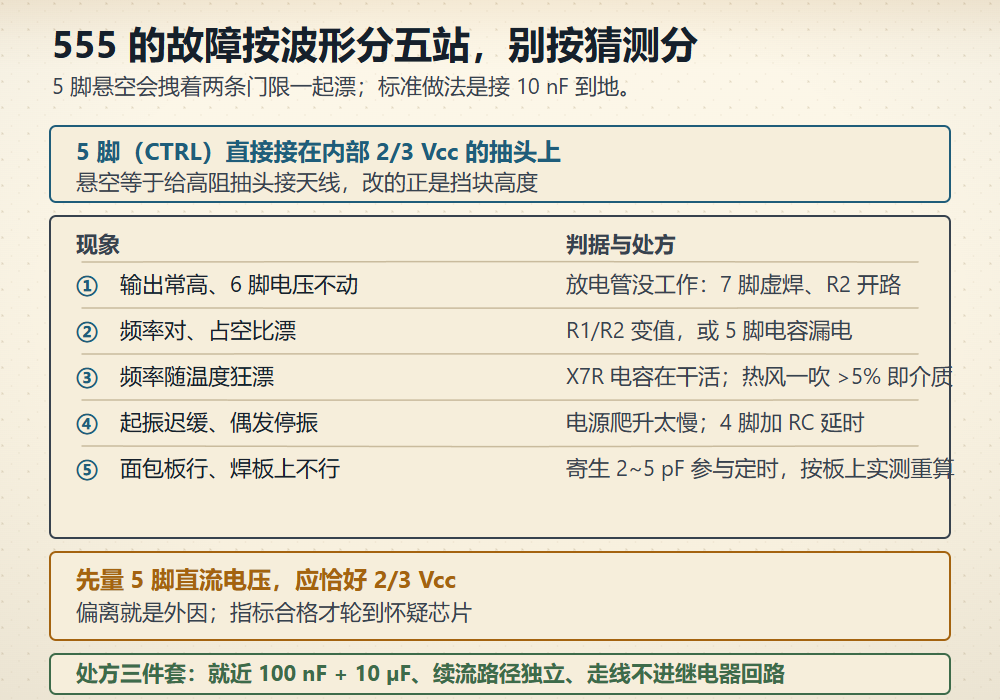
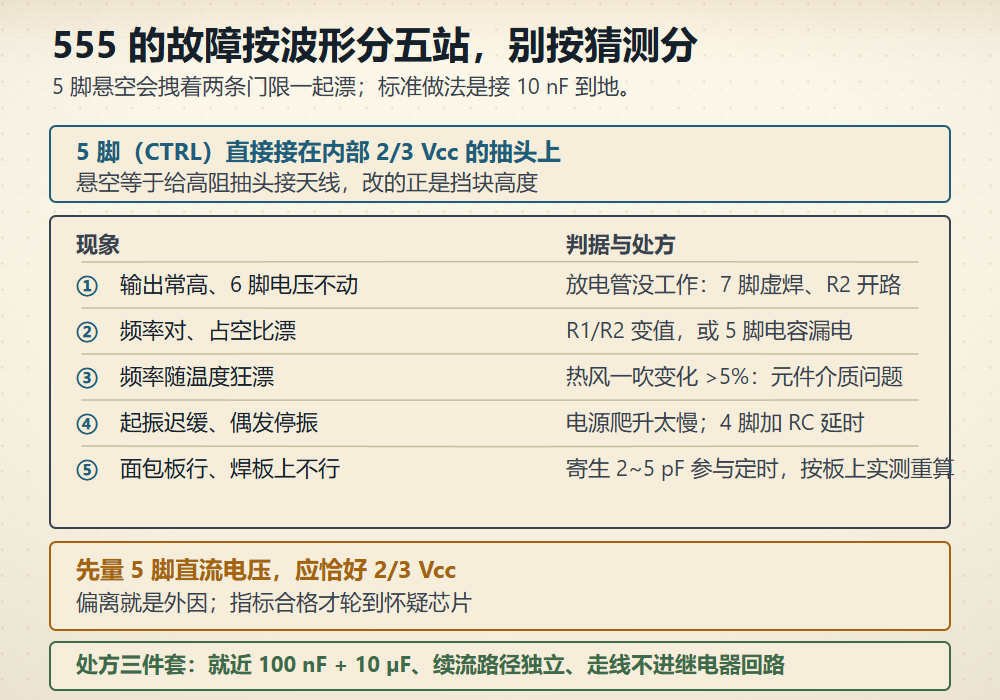
fix(visual): 补全 555 故障图谱判据句并保住 V2 手绘纸面皮肤
ch10-555-fault-tree ③ 站判据原是截断半句「X7R 电容在干活」，改为正文
§10.3 可追溯的完整句子并重排底部三框间距；svg_refine 的旧模板判定豁免
带 page-grain 且无 SMIL 的静态手绘图，印刷管线不再把纸面渐变、颗粒与
楷体标题剥成机械矢量图。

Changed region(s): [[0.031, 0.75, 0.961, 1.0], [0.558, 0.51, 0.961, 0.57]]

diff --git a/scripts/visuals/scenes/handdrawn_wave18.py b/scripts/visuals/scenes/handdrawn_wave18.py
@@ -27,25 +27,25 @@ def threes_five_fault_tree():
     parts.append(text(76, 160, '5 脚（CTRL）直接接在内部 2/3 Vcc 的抽头上', 24, colour=BLUE, weight='700'))
     parts.append(text(76, 190, '悬空等于给高阻抽头接天线，改的正是挡块高度', 22, colour=INK2))
 
-    parts.append(box(50, 216, 900, 322, fill=PAPER, stroke=INK2))
+    parts.append(box(50, 216, 900, 312, fill=PAPER, stroke=INK2))
     parts.append(text(76, 252, '现象', 22, colour=INK2, weight='700'))
     parts.append(text(566, 252, '判据与处方', 22, colour=INK2, weight='700'))
     rows = [
         ('①', '输出常高、6 脚电压不动', '放电管没工作：7 脚虚焊、R2 开路'),
         ('②', '频率对、占空比漂', 'R1/R2 变值，或 5 脚电容漏电'),
-        ('③', '频率随温度狂漂', 'X7R 电容在干活；热风一吹 >5% 即介质'),
+        ('③', '频率随温度狂漂', '热风一吹变化 >5%：元件介质问题'),
         ('④', '起振迟缓、偶发停振', '电源爬升太慢；4 脚加 RC 延时'),
         ('⑤', '面包板行、焊板上不行', '寄生 2~5 pF 参与定时，按板上实测重算'),
     ]
     for i, (k, s, v) in enumerate(rows):
         parts.extend(_row(292 + i * 46, k, s, v))
 
-    parts.append(box(50, 552, 900, 88, fill=PAPER, stroke=AMBER))
-    parts.append(text(76, 588, '先量 5 脚直流电压，应恰好 2/3 Vcc', 24, colour=AMBER, weight='700'))
-    parts.append(text(76, 620, '偏离就是外因；指标合格才轮到怀疑芯片', 22, colour=INK2))
+    parts.append(box(50, 542, 900, 88, fill=PAPER, stroke=AMBER))
+    parts.append(text(76, 578, '先量 5 脚直流电压，应恰好 2/3 Vcc', 24, colour=AMBER, weight='700'))
+    parts.append(text(76, 610, '偏离就是外因；指标合格才轮到怀疑芯片', 22, colour=INK2))
 
-    parts.append(box(50, 654, 900, 40, fill=PAPER, stroke=GREEN))
-    parts.append(text(76, 681, '处方三件套：就近 100 nF + 10 µF、续流路径独立、走线不进继电器回路',
+    parts.append(box(50, 642, 900, 48, fill=PAPER, stroke=GREEN))
+    parts.append(text(76, 672, '处方三件套：就近 100 nF + 10 µF、续流路径独立、走线不进继电器回路',
                       22, colour=GREEN, weight='700'))
     return parts
 
@@ -126,7 +126,7 @@ SCENES = {
                '悬空等于给高阻抽头接天线，改的正是挡块高度；标准做法接 10 纳法到地。'
                '中间框列五站：①输出常高、6 脚电压不动，判据是放电管没工作，7 脚虚焊或 R2 开路；'
                '②频率对、占空比漂，判据是 R1 或 R2 变值，或 5 脚电容漏电；'
-               '③频率随温度狂漂，判据是 X7R 电容在干活，热风一吹变化超过 5% 即介质问题；'
+               '③频率随温度狂漂，判据是热风一吹变化超过 5% 就是元件介质问题；'
                '④起振迟缓、偶发停振，判据是电源爬升太慢，4 脚加 RC 延时；'
                '⑤面包板行、焊到板上不行，判据是寄生 2 到 5 皮法参与定时，按板上实测重算。'
                '琥珀框写先量 5 脚直流电压、应恰好 2/3 Vcc，偏离就是外因，指标合格才轮到怀疑芯片。'

diff --git a/analog-book/tests/test_svg_refine.py b/analog-book/tests/test_svg_refine.py
@@ -50,6 +50,32 @@ class RefineFixtureTests(unittest.TestCase):
         self.assertFalse(is_legacy_svg(
             '<svg xmlns="http://www.w3.org/2000/svg"><path d="M0 0"/></svg>'))
 
+    def test_handraw_static_figure_keeps_paper_skin(self):
+        """手绘皮肤静态图（page-grain 颗粒、无 SMIL）不判旧模板：印刷保留纸面与楷体。"""
+        skinned = ('<svg xmlns="http://www.w3.org/2000/svg" viewBox="0 0 100 60">'
+                   '<defs><linearGradient id="bgL"><stop stop-color="#fdf8ea"/>'
+                   '</linearGradient><pattern id="dots"><circle r="1"/></pattern></defs>'
+                   '<rect class="page-bg" width="100" height="60" fill="url(#bgL)"/>'
+                   '<rect class="page-grain" width="100" height="60" fill="url(#dots)"/>'
+                   '<style>text{font-family:\'KaiTi\'}'
+                   '@media (prefers-color-scheme: dark){.page-bg{fill:#141310}}</style>'
+                   '<text x="10" y="30" fill="#16202b">手绘标题</text></svg>')
+        self.assertFalse(is_legacy_svg(skinned))
+        self.assertEqual(refine_svg(skinned), skinned)
+
+    def test_skinned_animation_still_refines(self):
+        """带皮肤的旧动画含 SMIL，仍走净化管线，不因皮肤豁免。"""
+        anim = ('<svg xmlns="http://www.w3.org/2000/svg" viewBox="0 0 100 60">'
+                '<defs><linearGradient id="bgL"><stop stop-color="#fdf8ea"/>'
+                '</linearGradient></defs>'
+                '<rect class="page-bg" width="100" height="60" fill="url(#bgL)"/>'
+                '<rect class="page-grain" width="100" height="60" fill="url(#dots)"/>'
+                '<style>@media (prefers-color-scheme: dark){text{fill:#ece4d3}}</style>'
+                '<circle r="4" fill="#1f5d7a"><animate attributeName="cx" values="10;90"/>'
+                '</circle></svg>')
+        self.assertTrue(is_legacy_svg(anim))
+        self.assertNotIn('class="page-grain"', refine_svg(anim))
+
     def test_removes_theme_animation_and_saturated_palette(self):
         out = refine_svg(LEGACY)
         for token in ("<linearGradient", "<pattern", "<filter", "<animate",

diff --git a/analog-book/book/svg_refine.py b/analog-book/book/svg_refine.py
@@ -71,8 +71,18 @@ PRINT_STYLE = (
 
 
 def is_legacy_svg(text: str) -> bool:
-    """旧模板同时带 bgL 渐变和 prefers-color-scheme，手绘图不会误判。"""
-    return 'id="bgL"' in text and "prefers-color-scheme" in text
+    """旧模板同时带 bgL 渐变和 prefers-color-scheme。
+
+    handraw 纸墨皮肤的静态手绘图（`class="page-grain"` 颗粒层、无 SMIL）
+    不算旧模板：印刷保留纸面渐变、颗粒与楷体手写体，剥掉它们等于把
+    手绘图重画成机械矢量图。旧动画虽然也带皮肤，但含 `<animate`，
+    仍走净化与分镜管线。
+    """
+    if 'id="bgL"' not in text or "prefers-color-scheme" not in text:
+        return False
+    if 'class="page-grain"' in text and "<animate" not in text.lower():
+        return False
+    return True
 
 
 def is_animated_svg(text: str) -> bool:

diff --git a/docs/superpowers/visual/reviews/task8-2026-11-05/PENDING-REVIEW.md b/docs/superpowers/visual/reviews/task8-2026-11-05/PENDING-REVIEW.md
@@ -14,6 +14,8 @@
 
 | 日期 | 资产 | 改了什么 | 证据 |
 |---|---|---|---|
+| 2026-11-07 | `ch10-555-fault-tree` | ③行判据原被截成半句「热风一吹 >5% 即介质」，改为完整句「热风一吹变化 >5%：元件介质问题」（对应正文 §10.3 原句）；底部绿框原高 40、贴画布底缘只剩 6px，重排中/琥珀/绿三框（312/88@542/48@642），框间距 8–14px、底缘留 10px | `measure_svg.py` 24 字 OVERFLOW/OCCLUDED/OVERLAP 0；`probe_lines_edges.py` 贴边最小 6.3px 与全库已审风格一致；`check_visual_manifest.py` PASS；alt 同步 |
+| 2026-11-07 | 印刷管线 `svg_refine.is_legacy_svg` | handraw 纸墨皮肤的静态手绘图（带 `page-grain`、无 SMIL）不再误判为旧模板：PDF/EPUB 印刷保留纸面渐变、颗粒、暗角与楷体手写体，不再剥皮换成黑体；带 SMIL 的旧动画判定不变 | `test_svg_refine.py` 新增 2 项夹具（皮肤静态图豁免 / 皮肤动画仍净化）全绿；`test_storyboard.py` 通过 |
 | 2026-11-06 | `ch17-symptom-four-fields` | 结论帧原本四行全空：每拍只画当拍一行、且不保留，播完右侧仍是「（待填写）」。改为累积重画前 N 行，未填行才画占位；结论帧四行全留 | 浏览器 `setCurrentTime(9.5)`：修前已填 0 行、占位 4；修后已填 4、占位 0。逐拍实测 0→1→2→3→4 行、占位 4→3→2→1→0。静态回退与分镜同步重建，分镜逐格 0/1/2/3/4 |
 | 2026-11-06 | `ch00-source-types-v2` 与动画中心 `source-types.svg` | 上轮补回结论曲线后，仍沿用了错误方向：横轴 I、纵轴 V，却把恒压画竖线、恒流画水平线。本轮统一新旧图的坐标约定，恒压水平、恒流竖直，负斜率的绝对值对应输出阻抗；正文、速查、动画中心、字幕与 alt 同步，旧图改生成器后重建 | V2 旧版 8 个视图回归失败，修后通过；关联旧图回归修前因恒压端点 120≠290 失败，修后通过；生成一致性与库存检查通过 |
 | 2026-11-06 | `ch00-divider-loading-v2` | 结论拍只剩一根虚线加「RL」二字，负载电阻本身没画出来，「下臂被并联」在图上无证据。改为结论拍保留负载支路与 `RL 10kΩ` 标注 | 静态回退含 `RL 10kΩ` 与电阻矩形；截图可见完整负载支路 |
